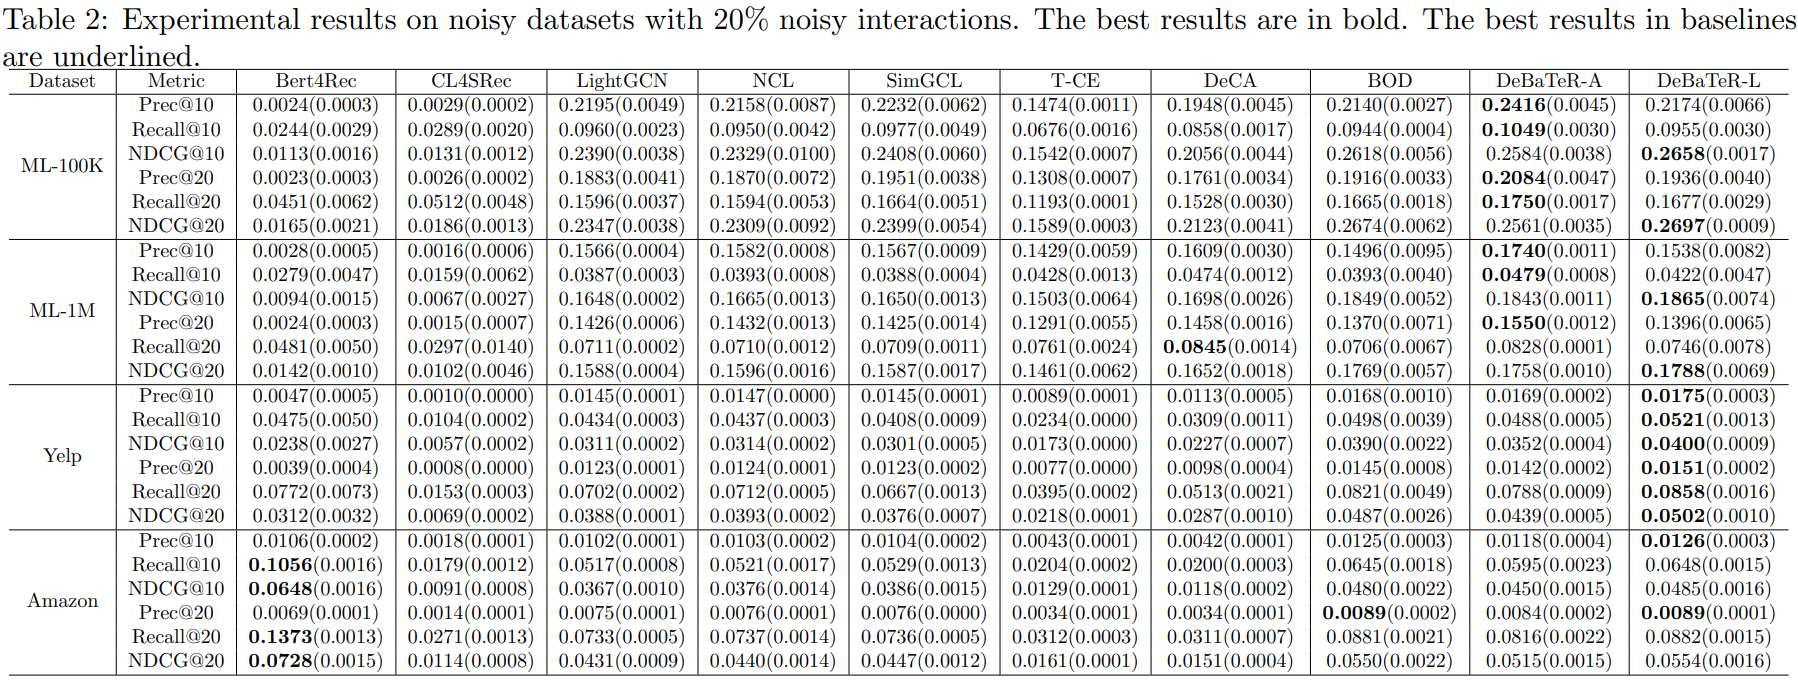
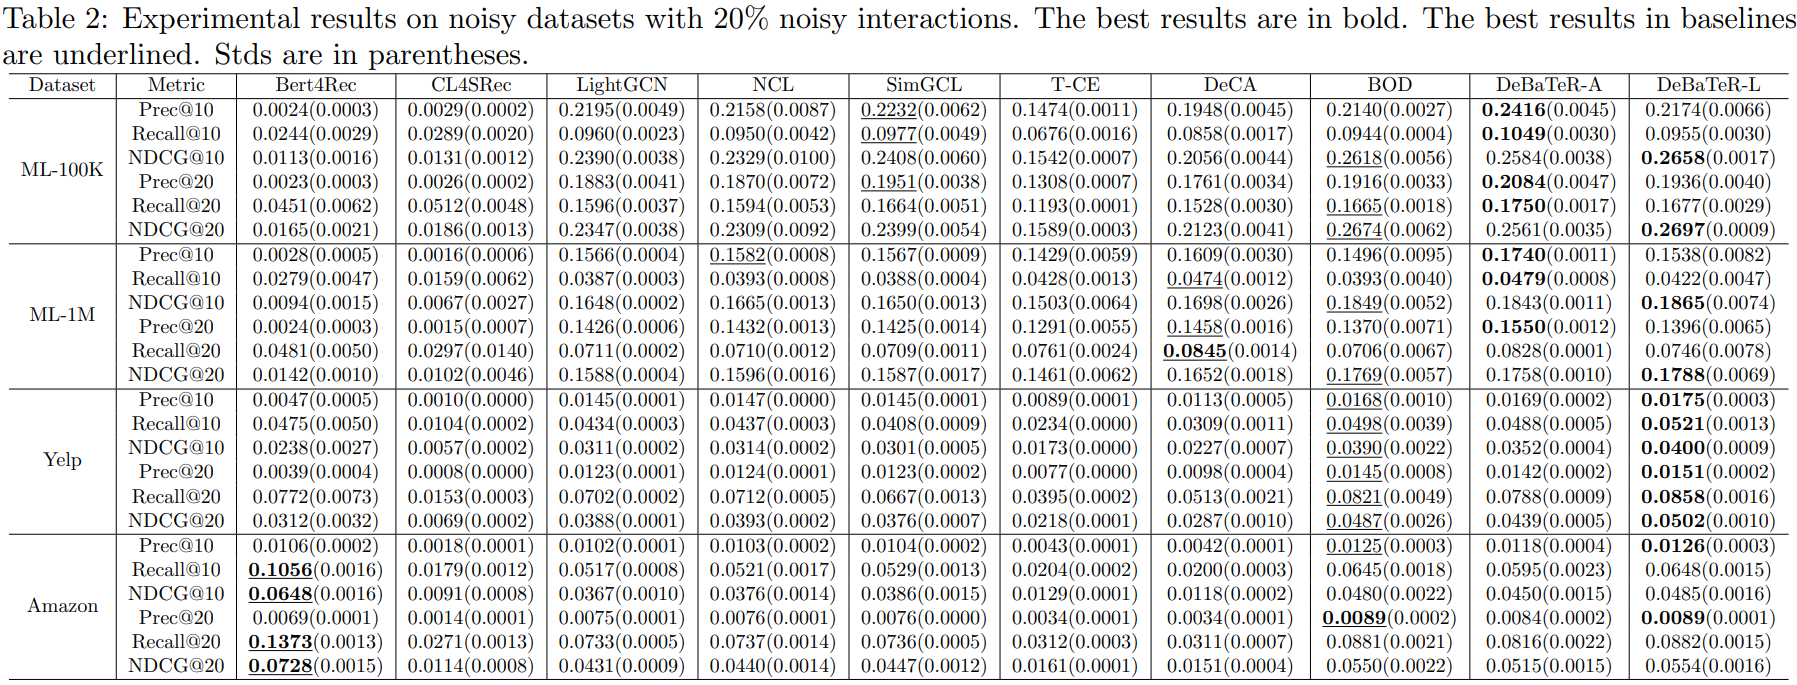
update

diff --git a/README.md b/README.md
@@ -2,7 +2,7 @@
 
 ## Updated experimental results
 
-We add **three new baselines** to the tables: LightGCN (a model without CL), Bert4Rec (state-of-the-art sequential model for recommendation), and CL4SRec (a follow-up work of SaSRec). We also include **standard deviations** in the updated tables.
+We add **three new baselines** to the tables: LightGCN (a model without CL), Bert4Rec (state-of-the-art sequential model for recommendation), and CL4SRec (a follow-up work of SaSRec). We also include **standard deviations** (in parentheses) in the updated tables.
 
 ![](exp_vanilla.png)
 
